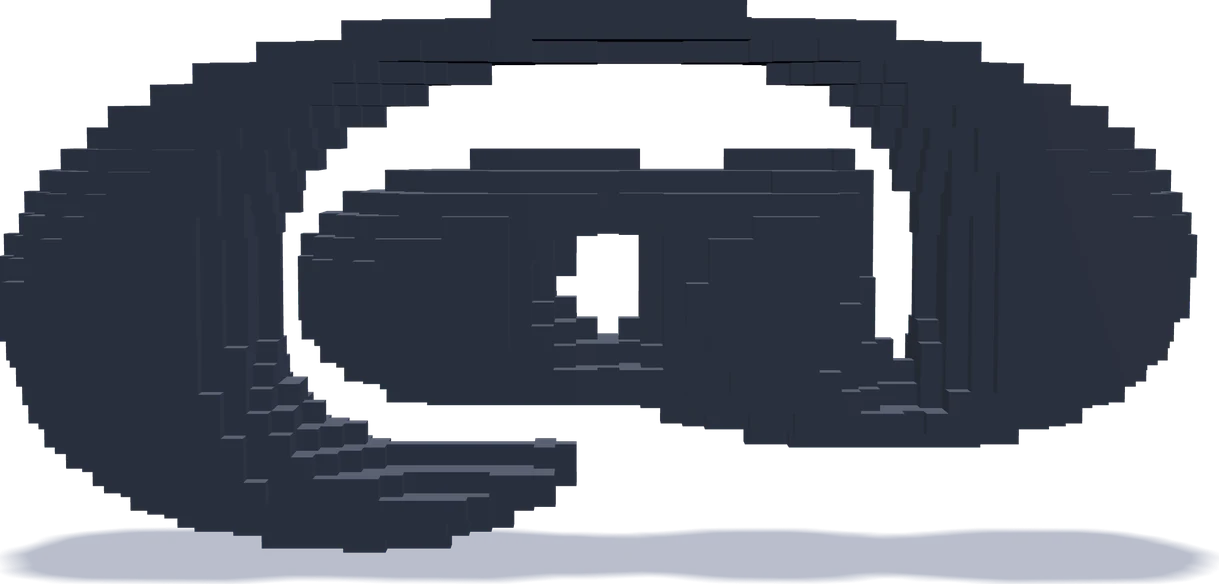
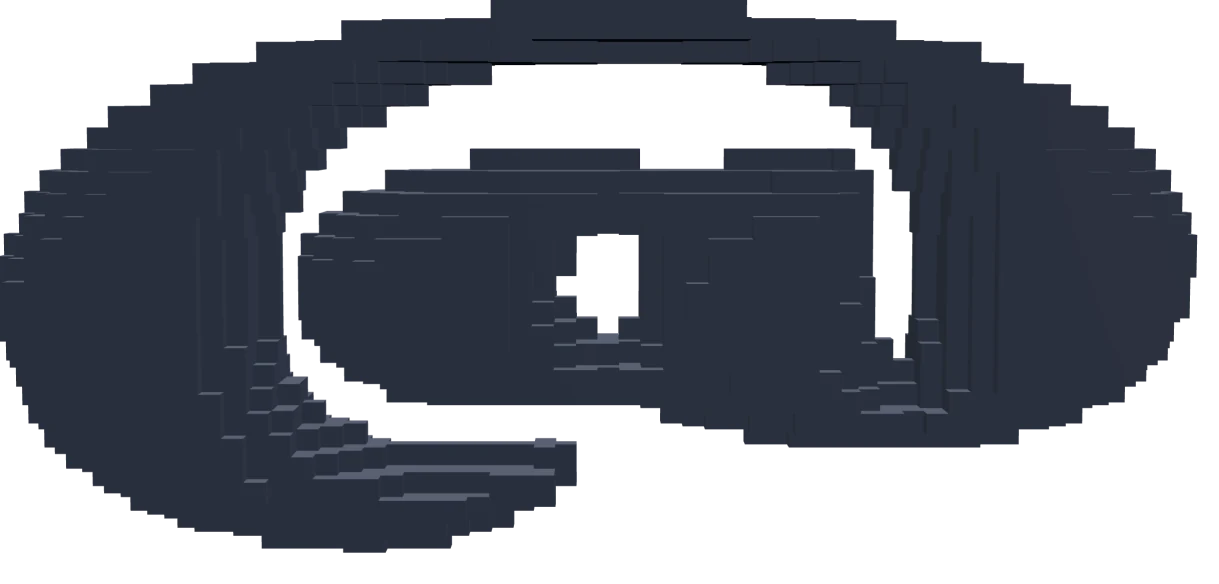
Знак: пиксели улетают за экран, тень убрана; крупные пиксельные заголовки разделов

Changed region(s): [[0.0, 0.8938, 0.9975, 1.0]]

diff --git a/js/znak.js b/js/znak.js
@@ -1,8 +1,8 @@
 /* Знак @ на первом экране — из пикселей.
-   Тот же @, что был в js/scene3d.js: запечённая сетка, сланцевый цвет, тень на полу,
+   Тот же @, что был в js/scene3d.js: запечённая сетка, сланцевый цвет (тень под знаком убрана),
    постоянный оборот, наклон за курсором, вращение пальцем. Сверху добавлено:
-   — нажатие выбивает из знака кубики-«пиксели» там, куда попал палец; они падают на пол,
-     подпрыгивают и складываются в горку;
+   — нажатие выбивает из знака кубики-«пиксели» там, куда попал палец, знак качается от удара,
+     а пиксели осыпаются по всей фигуре и улетают вниз за край экрана;
    — чем чаще бьёшь, тем крупнее куски; на 7-м ударе знак рушится целиком;
    — через паузу всё «бам» — пиксели влетают обратно на свои места.
    Знак пиксельный всегда: гладкая сетка задаёт только размер и служит основой для запекания.
@@ -21,11 +21,10 @@ const MARK_TURN = Math.PI * 2 / 9.375;
 const HIT_RADII = [1.05, 1.5, 2.1, 2.9, 3.8, 4.8]; // радиус выбоины в кубиках: 1-й удар, 2-й, ...
 const COLLAPSE_AT = 7;          // на этом ударе знак рушится целиком
 const HIT_WINDOW = 3.5;         // удары чаще этого (с) считаются серией
-const PARTIAL_WAIT = 4;         // после мелкой выбоины пиксели возвращаются через столько секунд тишины
-const FULL_WAIT = 1.2;          // после полного обрушения — через столько после того, как всё легло
+const PARTIAL_WAIT = 2.5;       // после мелкой выбоины пиксели возвращаются через столько секунд тишины
+const FULL_WAIT = 0.45;         // после полного обрушения — через столько после того, как всё улетело вниз
 const GRAVITY = 14;
-const BOUNCE = 0.32, FRICTION = 0.55;
-const BACK_K = 240, BACK_C = 2 * 0.5 * Math.sqrt(240); // пружина возврата: резкая, с перелётом
+const BACK_K = 240, BACK_C = 2 * 0.72 * Math.sqrt(240); // пружина возврата: резкая, с небольшим перелётом
 
 function makeRenderer(canvas) {
   const r = new THREE.WebGLRenderer({ canvas, antialias: true, alpha: true, powerPreference: 'high-performance' });
@@ -57,21 +56,13 @@ async function initMark() {
   const hint = document.getElementById('hint');
   const canvas = host.querySelector('canvas');
   const renderer = makeRenderer(canvas);
-  renderer.shadowMap.enabled = true;
-  renderer.shadowMap.type = THREE.VSMShadowMap;
   const scene = new THREE.Scene();
   const camera = new THREE.PerspectiveCamera(24, 1, 0.1, 60);
 
-  // свет и тень — один в один с первым экраном
+  // свет — как на первом экране; тени нет
   scene.add(new THREE.HemisphereLight(0xe4eaf4, 0x262b36, 1.6));
   const key = new THREE.DirectionalLight(0xffffff, 2.3);
   key.position.set(-0.3, 7, -0.45);
-  key.castShadow = true;
-  key.shadow.mapSize.set(1024, 1024);
-  key.shadow.radius = 14;
-  key.shadow.blurSamples = 20;
-  key.shadow.bias = -0.002;
-  Object.assign(key.shadow.camera, { left: -1.8, right: 1.8, top: 1.8, bottom: -1.8, near: 0.5, far: 10 });
   const fill = new THREE.DirectionalLight(0xc8d2e6, 0.9);
   fill.position.set(3, 0.5, 2);
   scene.add(key, fill);
@@ -85,7 +76,6 @@ async function initMark() {
 
   const mat = new THREE.MeshStandardMaterial({ color: 0x4b5262, roughness: 0.7, metalness: 0, flatShading: true });
   const mark = new THREE.Mesh(geo, mat);
-  mark.castShadow = true;
 
   // слои: наклон за курсором → свободный поворот пальцем → обычный оборот вокруг оси
   const pivot = new THREE.Group();
@@ -97,17 +87,12 @@ async function initMark() {
   scene.add(tilt);
 
   const floorY = -size.y / 2 - 0.01;
-  const floor = new THREE.Mesh(new THREE.PlaneGeometry(8, 8), new THREE.ShadowMaterial({ color: 0x34426a, opacity: 0.34 }));
-  floor.rotation.x = -Math.PI / 2;
-  floor.position.y = floorY;
-  floor.receiveShadow = true;
-  scene.add(floor);
 
   /* ─────────── Пиксели ───────────
    Два набора одинаковых кубиков. fixed живёт внутри знака и крутится вместе с ним;
    выбитый кубик там «гасится» (нулевая матрица) и переходит в loose — в мировые координаты,
    где его двигает физика. Возвращаясь на место, он снова переходит в fixed. */
-  const N = V.count, ST = V.step, HALF = ST / 2;
+  const N = V.count, ST = V.step;
   const [NX, NY, NZ] = V.dims, O = V.origin;
   const home = new Float32Array(N * 3), ijk = new Int16Array(N * 3);
   const occ = new Int32Array(NX * NY * NZ).fill(-1);
@@ -126,7 +111,6 @@ async function initMark() {
   const cube = new THREE.BoxGeometry(ST, ST, ST);
   const vmat = new THREE.MeshStandardMaterial({ color: 0x4b5262, roughness: 0.7, metalness: 0, flatShading: true });
   const fixed = new THREE.InstancedMesh(cube, vmat, N);
-  fixed.castShadow = true;
   fixed.frustumCulled = false;
   const FA = fixed.instanceMatrix.array;
   const placeFixed = id => {
@@ -140,26 +124,24 @@ async function initMark() {
 
   const loose = new THREE.InstancedMesh(cube, vmat, N);
   loose.instanceMatrix.setUsage(THREE.DynamicDrawUsage);
-  loose.castShadow = true;
   loose.frustumCulled = false;
   loose.count = 0;
   scene.add(loose);
   const LA = loose.instanceMatrix.array;
 
   // состояние каждого кубика
-  const ATTACHED = 0, FALLING = 1, SETTLING = 2, RESTING = 3, RETURNING = 4;
+  // GONE — упал вниз за край экрана и ждёт там возврата
+  const ATTACHED = 0, FALLING = 1, GONE = 2, RETURNING = 3;
   const mode = new Uint8Array(N);                 // 0 — на месте в знаке
   const pos = new Float32Array(N * 3), vel = new Float32Array(N * 3);
   const rot = new Float32Array(N * 4), spinW = new Float32Array(N * 3);
-  const tgt = new Float32Array(N * 3), tgtQ = new Float32Array(N * 4);
+  const tgt = new Float32Array(N * 3);
   const delay = new Float32Array(N), age = new Float32Array(N);
-  const bounces = new Uint8Array(N), restCell = new Int32Array(N), restLevel = new Int16Array(N);
   const slotOf = new Int32Array(N).fill(-1), slotId = new Int32Array(N);
   let looseCount = 0, attachedCount = N;
 
-  // пол — сетка высот: каждый лёгший кубик поднимает свою клетку, поэтому они складываются в горку
-  const FX0 = -2.6, FZ0 = -2.2, FW = Math.ceil(5.2 / ST), FD = Math.ceil(4 / ST);
-  const height = new Int16Array(FW * FD);
+  // ниже этой высоты кубик уже за нижним краем экрана (считается в resize)
+  let dropY = -3;
 
   function writeLoose(id) {
     const o = slotOf[id] * 16, p = id * 3, q = id * 4;
@@ -197,7 +179,6 @@ async function initMark() {
   function exitVoxel() {
     voxelMode = false;
     hits = 0; collapsed = false;
-    height.fill(0);
   }
 
   // текущая скорость оборота знака — выбитый кубик уносит её с собой
@@ -215,7 +196,6 @@ async function initMark() {
     rot.set([pivotQ.x, pivotQ.y, pivotQ.z, pivotQ.w], id * 4);
     const a = 4 + Math.random() * 8;
     spinW.set([(Math.random() - 0.5) * a, (Math.random() - 0.5) * a, (Math.random() - 0.5) * a], p);
-    bounces[id] = 0;
     addLoose(id);
     writeLoose(id);
     looseDirty = true;
@@ -227,54 +207,6 @@ async function initMark() {
     fixedDirty = true;
     removeLoose(id);
     looseDirty = true;
-  }
-  // кубик поднимают с пола — его клетка в горке опускается
-  function liftOff(id) {
-    if (mode[id] === SETTLING || mode[id] === RESTING) {
-      const c = restCell[id];
-      height[c] = Math.min(height[c], restLevel[id]);
-    }
-  }
-
-  /* лёг: скатываемся с горки, пока в пределах трёх клеток есть место ниже больше чем на кубик,
-     затем занимаем клетку. Склон выходит ~1:3 — горка низкая и широкая, а не гора выше знака. */
-  const DX = [1, -1, 0, 0, 1, -1, 1, -1], DZ = [0, 0, 1, -1, 1, 1, -1, -1];
-  const REACH = 3;
-  const PILE_X = 1.9, PILE_FRONT = 0.45, PILE_BACK = -1.95;  // где может лежать горка; ближе к камере пол уходит за кадр
-  const cxMin = Math.floor((-PILE_X - FX0) / ST), cxMax = Math.floor((PILE_X - FX0) / ST);
-  const czMin = Math.floor((PILE_BACK - FZ0) / ST), czMax = Math.floor((PILE_FRONT - FZ0) / ST);
-  function settle(id) {
-    const p = id * 3;
-    let cx = clamp(Math.floor((pos[p] - FX0) / ST), cxMin, cxMax), cz = clamp(Math.floor((pos[p + 2] - FZ0) / ST), czMin, czMax);
-    for (let it = 0; it < 60; it++) {
-      const start = (Math.random() * 8) | 0, hc = height[cz * FW + cx];
-      let bestN = -1, bestScore = hc - 1;
-      for (let n = 0; n < 8; n++) {
-        const d = (start + n) & 7;
-        for (let k = 1; k <= REACH; k++) {
-          const x = cx + DX[d] * k, z = cz + DZ[d] * k;
-          if (x < cxMin || x > cxMax || z < czMin || z > czMax) break;
-          const hh = height[z * FW + x];
-          if (hh > hc) break;                       // дальше выше — туда не катится
-          const score = hh + k * 0.01;
-          if (hh < hc - 1 && score < bestScore) { bestScore = score; bestN = d; }
-        }
-      }
-      if (bestN < 0) break;
-      cx += DX[bestN]; cz += DZ[bestN];
-    }
-    const c = cz * FW + cx;
-    restCell[id] = c;
-    restLevel[id] = height[c];
-    height[c]++;
-    tgt[p] = FX0 + ((c % FW) + 0.5) * ST;
-    tgt[p + 1] = floorY + (restLevel[id] + 0.5) * ST;
-    tgt[p + 2] = FZ0 + (Math.floor(c / FW) + 0.5) * ST;
-    // лежит ровно, повёрнут только вокруг вертикали
-    const yaw = (Math.random() - 0.5) * 0.6;
-    tgtQ.set([0, Math.sin(yaw / 2), 0, Math.cos(yaw / 2)], id * 4);
-    vel.fill(0, p, p + 3);
-    mode[id] = SETTLING;
   }
 
   /* ─────────── Удары ─────────── */
@@ -367,14 +299,12 @@ async function initMark() {
       const dx = pos[p] - hp.x, dy = pos[p + 1] - hp.y, dz = pos[p + 2] - hp.z;
       const d2 = dx * dx + dy * dy + dz * dz;
       if (d2 > R2) continue;
-      liftOff(id);
       const d = Math.sqrt(d2) || 1, f = 0.8 + Math.random();
       vel[p] = dx / d * f - rd.x * 0.5;
       vel[p + 1] = 1.4 + Math.random() * 1.6;
       vel[p + 2] = dz / d * f - rd.z * 0.5;
       const a = 4 + Math.random() * 8;
       spinW.set([(Math.random() - 0.5) * a, (Math.random() - 0.5) * a, (Math.random() - 0.5) * a], p);
-      bounces[id] = 0;
       mode[id] = FALLING;
     }
   }
@@ -385,7 +315,6 @@ async function initMark() {
     for (let s = 0; s < looseCount; s++) {
       const id = slotId[s];
       if (mode[id] === RETURNING) continue;
-      liftOff(id);
       mode[id] = RETURNING;
       delay[id] = full ? (home[id * 3] - O[0]) / (NX * ST) * 0.3 + Math.random() * 0.06 : Math.random() * 0.12;
       age[id] = 0;
@@ -473,6 +402,8 @@ async function initMark() {
     camera.position.set(0, dist * Math.sin(0.07), dist * Math.cos(0.07));
     camera.lookAt(0, 0, 0);
     const lift = window.accHeroLayout ? window.accHeroLayout() : 0;
+    // нижний край кадра на глубине знака и запас — ближние к камере кубики уходят за край раньше
+    dropY = -visH / 2 - lift * visH / h - visH * 0.3;
     camera.setViewOffset(w, h, 0, lift, w, h);
     camera.updateProjectionMatrix();
     camera.updateMatrixWorld();
@@ -611,12 +542,12 @@ async function initMark() {
     // цели возврата — текущее место в знаке (знак может крутиться)
     for (let s = 0; s < looseCount; s++) { const id = slotId[s]; if (mode[id] === RETURNING) homeWorld(id, tgt, id * 3); }
     const n = Math.max(1, Math.ceil(dt / (1 / 120))), h = dt / n;
-    const settleK = 1 - Math.exp(-22 * h), turnK = 1 - Math.exp(-20 * h);
+    const turnK = 1 - Math.exp(-20 * h);
     active = 0; returning = 0;
     // с конца: вернувшийся кубик уходит из списка, на его место встаёт уже посчитанный последний
     for (let s = looseCount - 1; s >= 0; s--) {
       const id = slotId[s], m = mode[id];
-      if (m === RESTING) continue;
+      if (m === GONE) continue;
       const p = id * 3, q = id * 4;
       if (m === RETURNING) {
         returning++;
@@ -632,19 +563,8 @@ async function initMark() {
         if (mode[id] === FALLING) {
           vel[p + 1] -= GRAVITY * h;
           pos[p] += vel[p] * h; pos[p + 1] += vel[p + 1] * h; pos[p + 2] += vel[p + 2] * h;
-          // стенки за краем пола, чтобы горка не уезжала из кадра
-          if (Math.abs(pos[p]) > PILE_X) { pos[p] = clamp(pos[p], -PILE_X, PILE_X); vel[p] *= -0.3; }
-          if (pos[p + 2] < PILE_BACK || pos[p + 2] > PILE_FRONT) { pos[p + 2] = clamp(pos[p + 2], PILE_BACK, PILE_FRONT); vel[p + 2] *= -0.3; }
-          const cx = clamp(Math.floor((pos[p] - FX0) / ST), 0, FW - 1), cz = clamp(Math.floor((pos[p + 2] - FZ0) / ST), 0, FD - 1);
-          const surf = floorY + height[cz * FW + cx] * ST;
-          if (pos[p + 1] - HALF <= surf && vel[p + 1] < 0) {
-            if (bounces[id] < 2 && -vel[p + 1] > 0.9) {
-              pos[p + 1] = surf + HALF;
-              vel[p + 1] *= -BOUNCE; vel[p] *= FRICTION; vel[p + 2] *= FRICTION;
-              spinW[p] *= 0.6; spinW[p + 1] *= 0.6; spinW[p + 2] *= 0.6;
-              bounces[id]++;
-            } else settle(id);
-          }
+          // пола нет: кубик проваливается вниз за край экрана и ждёт там
+          if (pos[p + 1] < dropY) { vel.fill(0, p, p + 3); mode[id] = GONE; break; }
           // кувырок: q += ½·ω·q·dt
           const wx = spinW[p], wy = spinW[p + 1], wz = spinW[p + 2];
           const x = rot[q], y = rot[q + 1], z = rot[q + 2], w = rot[q + 3], hh = 0.5 * h;
@@ -652,17 +572,6 @@ async function initMark() {
           rot[q + 1] = y + hh * (wy * w + wz * x - wx * z);
           rot[q + 2] = z + hh * (wz * w + wx * y - wy * x);
           rot[q + 3] = w - hh * (wx * x + wy * y + wz * z);
-        } else if (mode[id] === SETTLING) {
-          pos[p] += (tgt[p] - pos[p]) * settleK;
-          pos[p + 1] += (tgt[p + 1] - pos[p + 1]) * settleK;
-          pos[p + 2] += (tgt[p + 2] - pos[p + 2]) * settleK;
-          nlerp(q, tgtQ, q, settleK);
-          if (Math.abs(tgt[p] - pos[p]) + Math.abs(tgt[p + 1] - pos[p + 1]) + Math.abs(tgt[p + 2] - pos[p + 2]) < ST * 0.02) {
-            pos.set(tgt.subarray(p, p + 3), p);
-            rot.set(tgtQ.subarray(q, q + 4), q);
-            mode[id] = RESTING;
-            break;
-          }
         } else if (mode[id] === RETURNING) {
           for (let a = 0; a < 3; a++) {
             vel[p + a] += (-BACK_K * (pos[p + a] - tgt[p + a]) - BACK_C * vel[p + a]) * h;
@@ -762,10 +671,9 @@ async function initMark() {
     get tilt() { return free.quaternion.toArray(); },
     get info() { return { voxelMode, attached: attachedCount, loose: looseCount, active, returning, hits, collapsed, total: N, clock, lastBusy, lastAction, physMs, pending: pending.length }; },
     debug() {
-      const byMode = [0, 0, 0, 0, 0]; let maxH = 0, maxY = -9;
-      for (let s = 0; s < looseCount; s++) { const id = slotId[s]; byMode[mode[id]]++; if (mode[id] === RESTING) maxY = Math.max(maxY, pos[id * 3 + 1]); }
-      for (let c = 0; c < height.length; c++) maxH = Math.max(maxH, height[c]);
-      return { byMode, maxH, maxY, floorY, step: ST };
+      const byMode = [0, 0, 0, 0];
+      for (let s = 0; s < looseCount; s++) byMode[mode[slotId[s]]]++;
+      return { byMode, dropY, floorY, step: ST };
     },
     get frames() { return frames; },
   };

diff --git a/index.html b/index.html
@@ -192,8 +192,9 @@
 
     /* ─── Capsules ───────────────────────────────────────── */
     /* Карточка: светлая плитка, вещь нарисована пикселями; на телефоне — лента, листается пальцем */
-    #capsules { background: var(--bg); }
-    .capsules-header { display: flex; justify-content: space-between; align-items: flex-end; margin-bottom: 48px; }
+    /* раздел начинается с тонкой линии во всю ширину — первый экран и каталог не слипаются */
+    #capsules { background: var(--bg); border-top: 1px solid var(--border); }
+    .capsules-header { display: flex; justify-content: space-between; align-items: flex-end; margin-bottom: 56px; }
     .capsules-grid { display: grid; grid-template-columns: repeat(3, minmax(0, 1fr)); gap: 16px; }
     .capsule-card { display: block; color: var(--ink); text-decoration: none; }
     .capsule-tile {
@@ -238,11 +239,8 @@
       background: var(--ink); color: white;
       display: flex; justify-content: space-between; align-items: center; gap: 32px;
     }
-    .order-cta-text h2 {
-      font-family: var(--pixel); font-size: clamp(20px,2.5vw,36px); font-weight: normal;
-      letter-spacing: 0.06em; margin-bottom: 8px; color: white;
-    }
-    .order-cta-text p { font-size: 13px; color: rgba(255,255,255,0.5); }
+    .order-cta-text h2 { margin-bottom: 12px; color: white; }
+    .order-cta-text p { font-size: 15px; color: rgba(255,255,255,0.5); }
     .order-cta-btn {
       flex-shrink: 0; padding: 16px 36px;
       border: 1px solid rgba(255,255,255,0.3); color: white;
@@ -314,9 +312,9 @@
       .nav-links { display: none; }
       .burger { display: flex; }
       .section { padding: 36px 24px 48px; }
-      .capsules-header { flex-direction: column; align-items: flex-start; gap: 8px; }
+      #capsules { padding-top: 48px; }
+      .capsules-header { flex-direction: column; align-items: flex-start; gap: 8px; margin-bottom: 32px; }
       .order-cta { margin: 0 24px 56px; padding: 32px 28px; flex-direction: column; align-items: flex-start; }
-      .order-cta-text h2 { font-size: 28px; }
       footer { flex-wrap:wrap; flex-direction: column; gap: 20px; text-align: center; }
       .footer-links { flex-wrap: wrap; justify-content: center; }
     }
@@ -381,7 +379,7 @@
 <script src="/js/site-data.js?v=2"></script>
 <section id="hero">
   <div class="hero-3d" id="hero3d" aria-hidden="true">
-    <img class="hero-still" src="images/mark-still.webp?v=2" alt="" width="1219" height="584" fetchpriority="high">
+    <img class="hero-still" src="images/mark-still.webp?v=3" alt="" width="1219" height="584" fetchpriority="high">
     <canvas></canvas>
   </div>
   <h1 class="hero-brand">accinthecloud</h1>
@@ -691,7 +689,7 @@ document.querySelectorAll('.faq-q').forEach(btn => {
 // 3D-знак из пикселей (Three.js, ~170 КБ) грузится после вступления первого экрана, чтобы не тормозить загрузку;
 // до этого виден знак картинкой. Блок дропа догружает сумку, когда подъезжает к экрану.
 if (!document.documentElement.classList.contains('has-drop'))
-  addEventListener('load', () => setTimeout(() => import('./js/znak.js?v=1').catch(() => {}), 1400), { once: true });
+  addEventListener('load', () => setTimeout(() => import('./js/znak.js?v=2').catch(() => {}), 1400), { once: true });
 </script>
 </body>
 </html>

diff --git a/site.css b/site.css
@@ -193,16 +193,33 @@ button, input, textarea, select { font-family: inherit; }
   font-family: var(--f-pixel) !important; font-size: var(--d-1) !important;
   font-weight: 400; line-height: 1; letter-spacing: 0 !important;
 }
-h1, .page-hero-title, .order-wrap h1, .offer-wrap h1, .wrap h1, .capsules-header h2, .lb-title {
+h1, .page-hero-title, .order-wrap h1, .offer-wrap h1, .wrap h1, .lb-title {
   font-family: var(--f-pixel) !important; font-size: var(--d-2) !important;
   font-weight: 400; line-height: 1.05; letter-spacing: 0 !important;
 }
-.order-cta-text h2, .modal-name, .carousel-name, .capsule-name, #fallbackScreen h2, .form-success h3, .faq-section-title {
+.modal-name, .carousel-name, .capsule-name, #fallbackScreen h2, .form-success h3, .faq-section-title {
   font-family: var(--f-pixel) !important; font-size: var(--d-3) !important;
   font-weight: 400; line-height: 1.1; letter-spacing: 0 !important; text-transform: none;
 }
 .footer-logo {
   font-family: var(--f-pixel) !important; font-size: var(--d-4) !important; letter-spacing: 0 !important;
+}
+
+/* Заголовки разделов главной: тот же пиксельный шрифт, что у знака, но в 2–3 раза крупнее.
+   Кегли — ступени сетки шрифта (кратны 32/3 px), иначе пиксели мылятся */
+.capsules-header h2, .order-cta-text h2 {
+  font-family: var(--f-pixel) !important; font-weight: 400; line-height: 1.05;
+  letter-spacing: 0 !important; text-transform: none;
+}
+.capsules-header h2 { font-size: 42.67px !important; }
+.order-cta-text h2 { font-size: 32px !important; }
+@media (min-width: 768px) {
+  .capsules-header h2 { font-size: 64px !important; }
+  .order-cta-text h2 { font-size: 42.67px !important; }
+}
+@media (min-width: 1200px) {
+  .capsules-header h2 { font-size: 106.67px !important; }
+  .order-cta-text h2 { font-size: 64px !important; }
 }
 
 /* Подписи: Inter 12, прописные, лёгкая разрядка */
